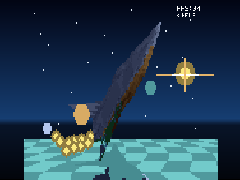
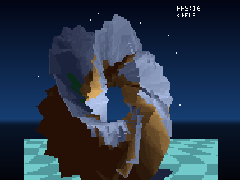
Docs: exact 1:1 screenshot mapping for all 8 gallery scenes in README.md

diff --git a/README.md b/README.md
@@ -12,7 +12,7 @@
 
 ---
 
-## Gallery / Galeria (7 Scen na Prawdziwym Potoku AGA)
+## Gallery / Galeria (8 Etapow na Prawdziwym Potoku AGA)
 
 <table>
   <tr>
@@ -25,7 +25,7 @@
     <td align="center"><img src="docs/shot_v114_5.png" width="240" /><br/><sub><b>5. Przelot przez Torus</b> (Kamera 6DOF)</sub></td>
     <td align="center"><img src="docs/shot_v114_6.png" width="240" /><br/><sub><b>6. Model .OBJ Suzanne</b> (968 trojkatow)</sub></td>
     <td align="center"><img src="docs/shot_v114_7.png" width="240" /><br/><sub><b>7. Teren 3D Heightmap</b> (Kanion + Woda)</sub></td>
-    <td align="center"><b>M68020+ / AGA 256</b><br/><sub>16-bit Z-Buffer &bull; C2P &bull; 4-kanalowy MOD</sub></td>
+    <td align="center"><img src="docs/shot_v114_8.png" width="240" /><br/><sub><b>8. Final 3D &amp; Orbita</b> (Postac Wektorowa)</sub></td>
   </tr>
 </table>
 
